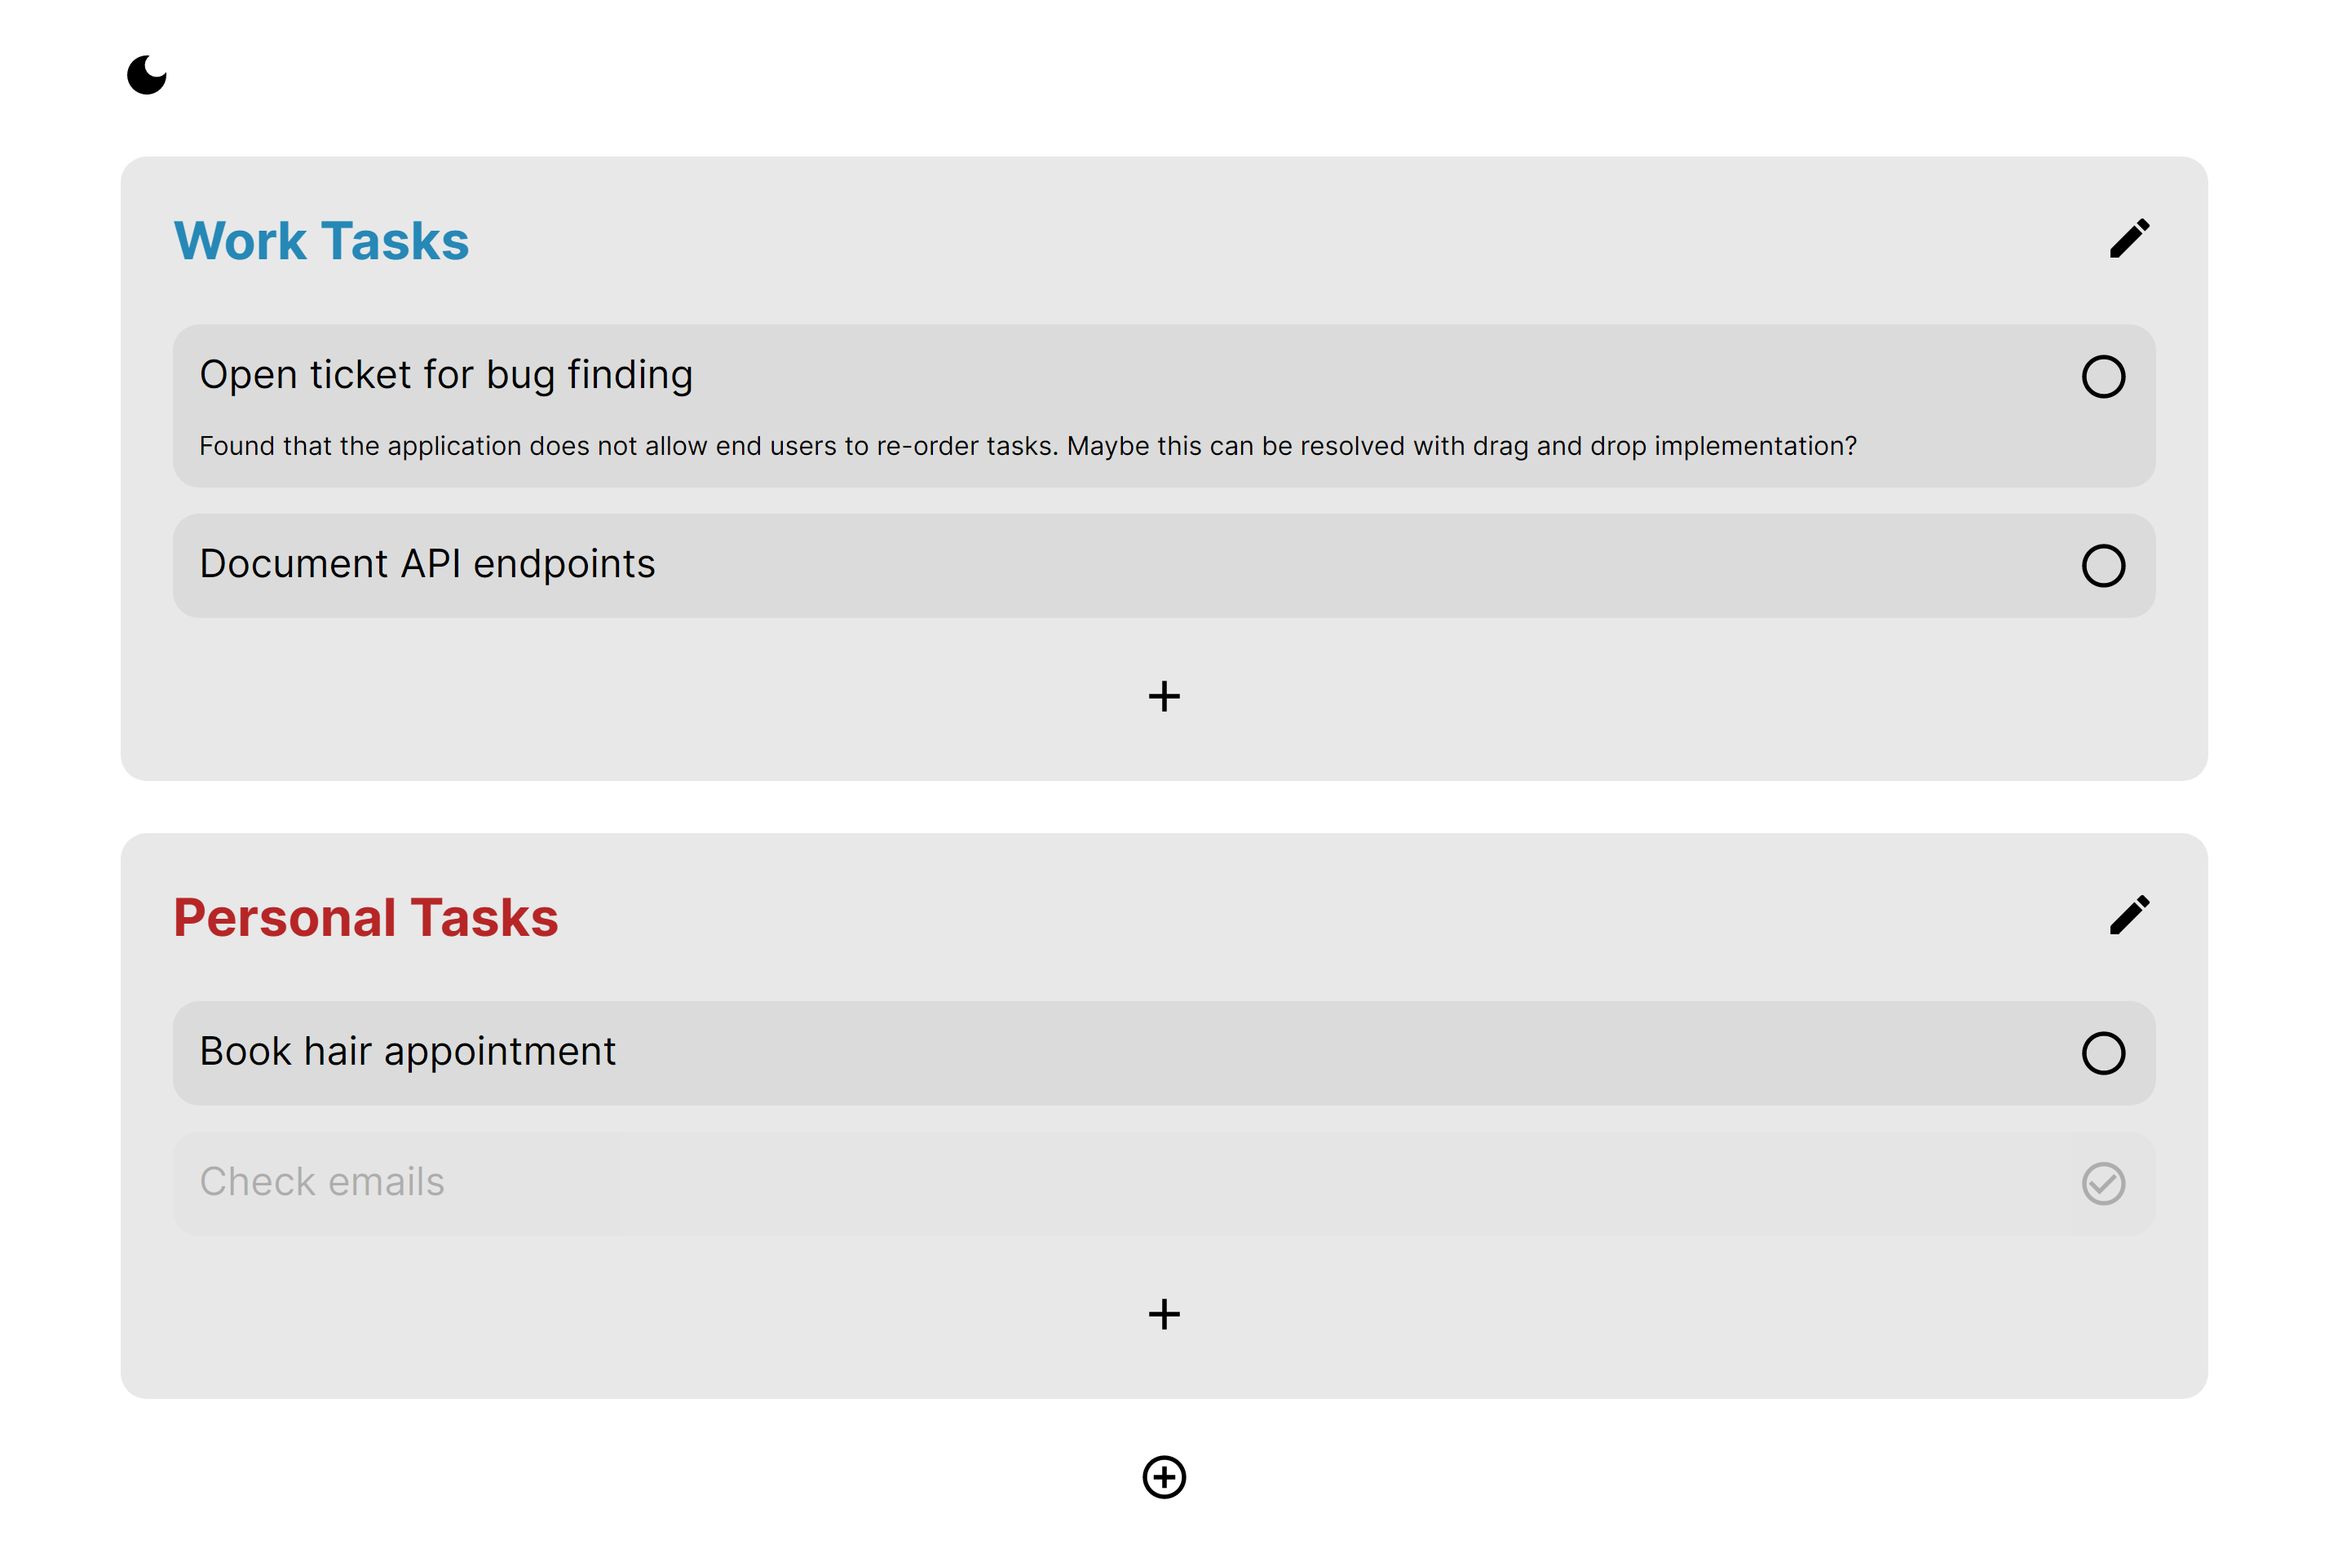
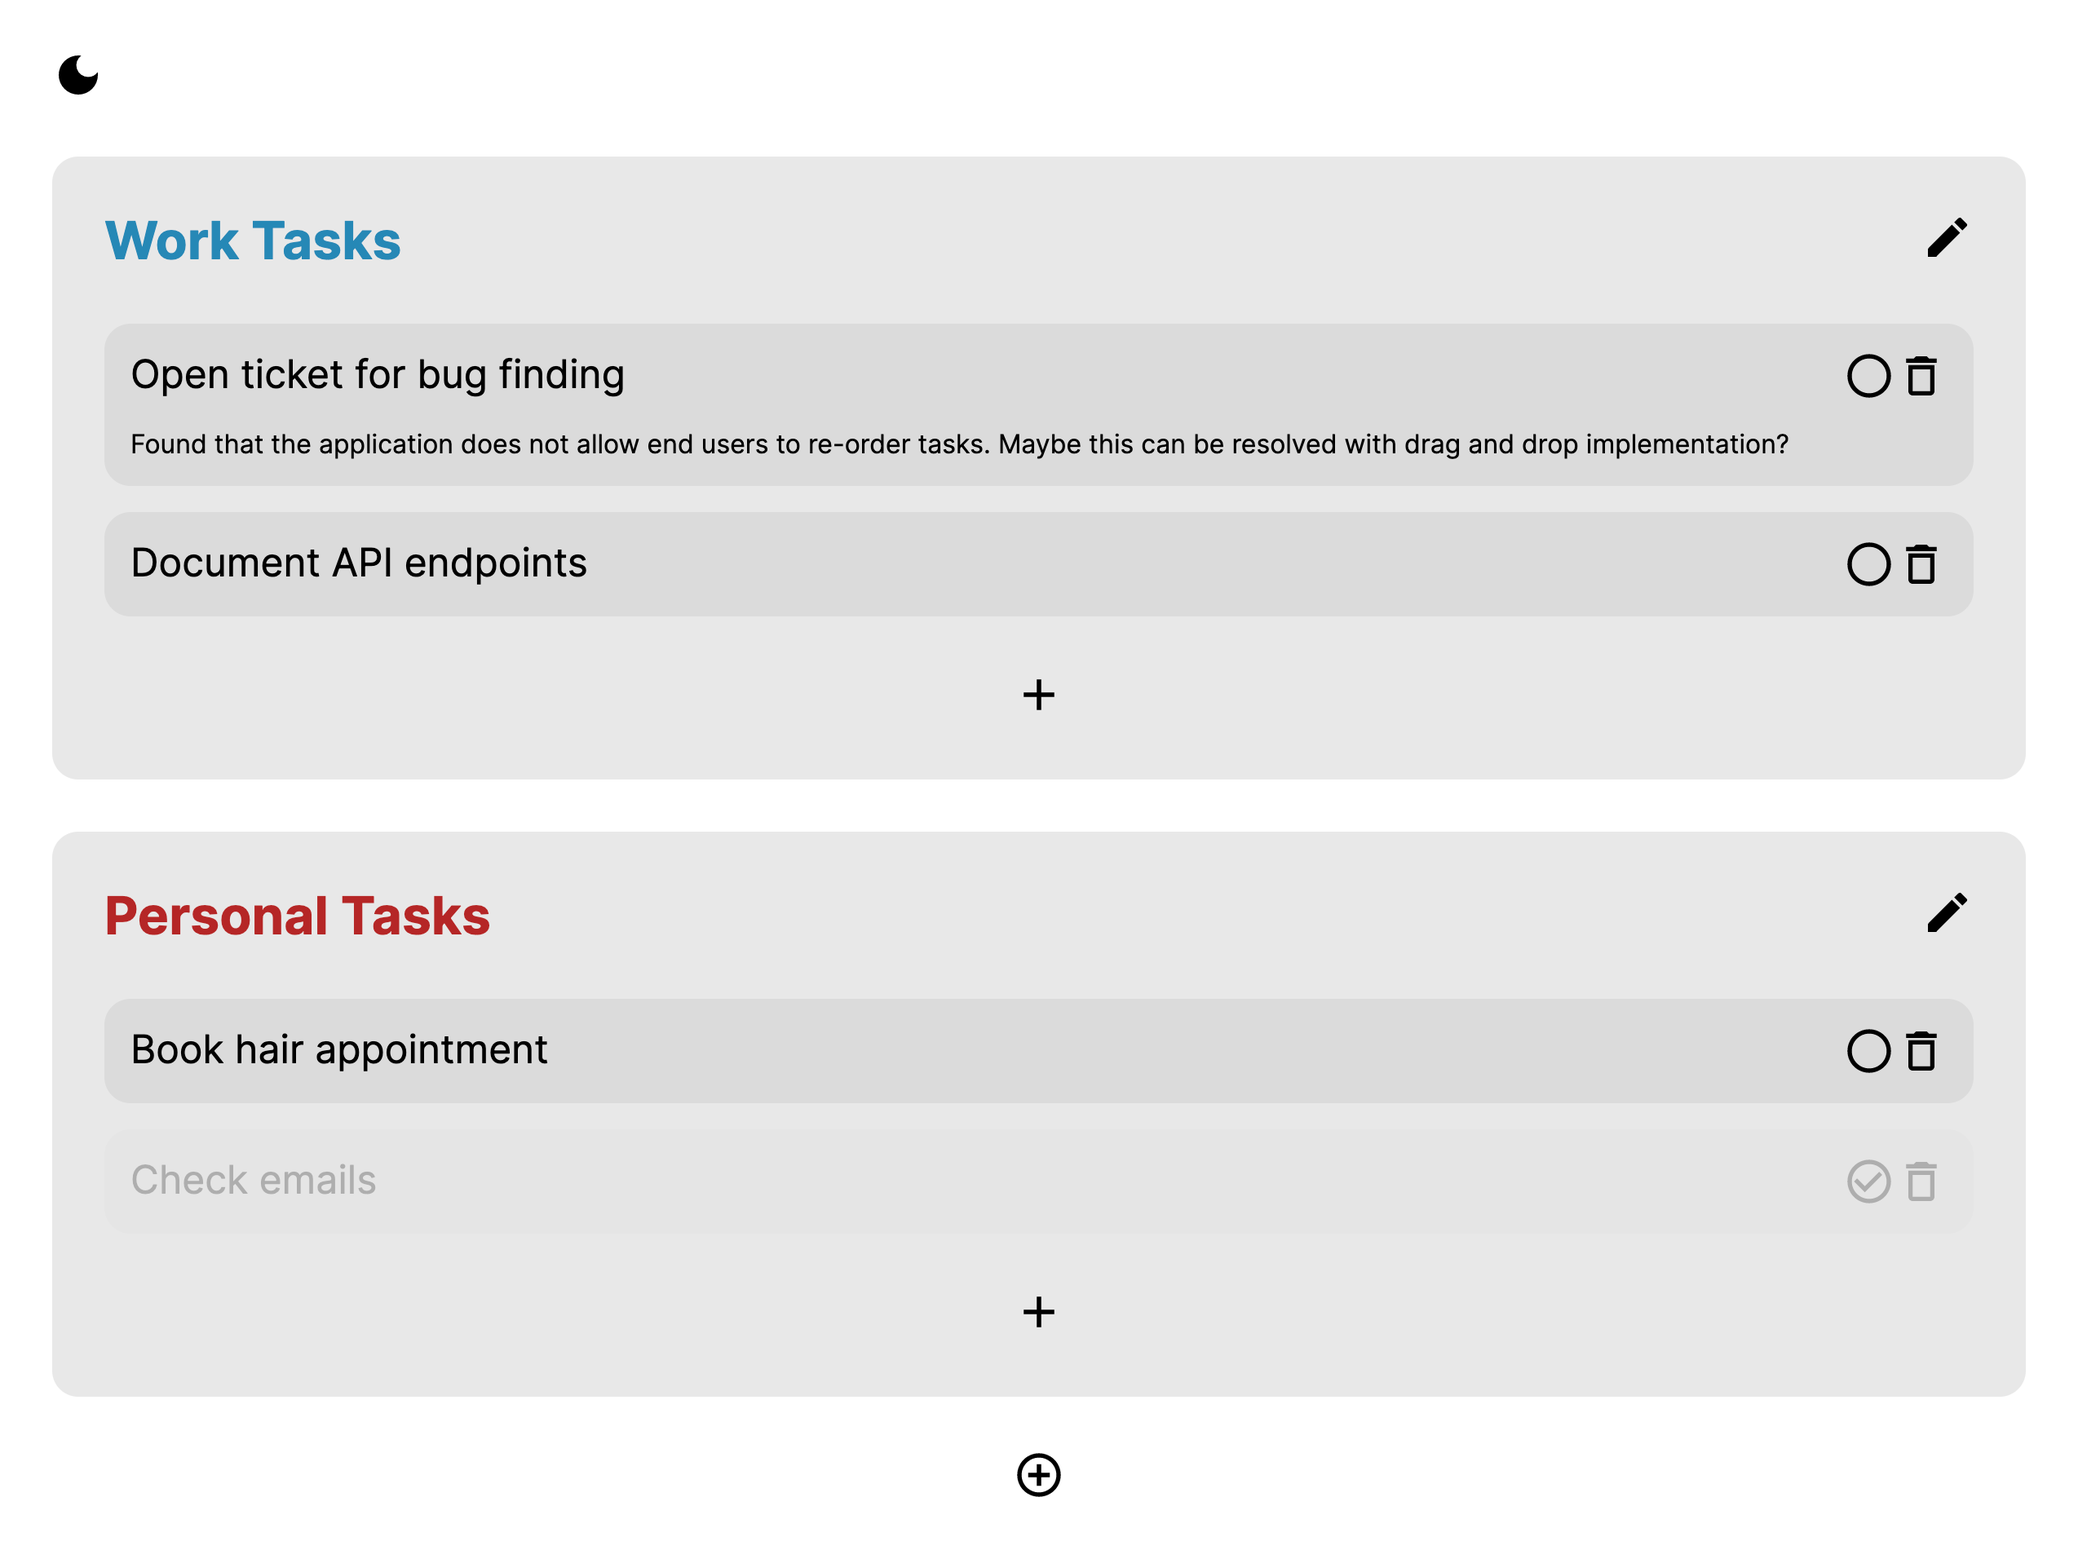
Update README

diff --git a/README.md b/README.md
@@ -7,13 +7,12 @@ A simple CRUD web application to assist in managing and grouping to-do tasks.
 ### Tasks
 - Update task titles/descriptions
 - Deadlines/desktop reminders for tasks
-- Delete tasks
 ### General
 - Switch task reducer to utilize Redux
 - Switch client to utilize TypeScript
 - Re-ordering for tasks and task groups
-- Real time updates
 - User authentication system
+    - Real time updates
 - Dockerize the Node server
 
 # Local Configuration
